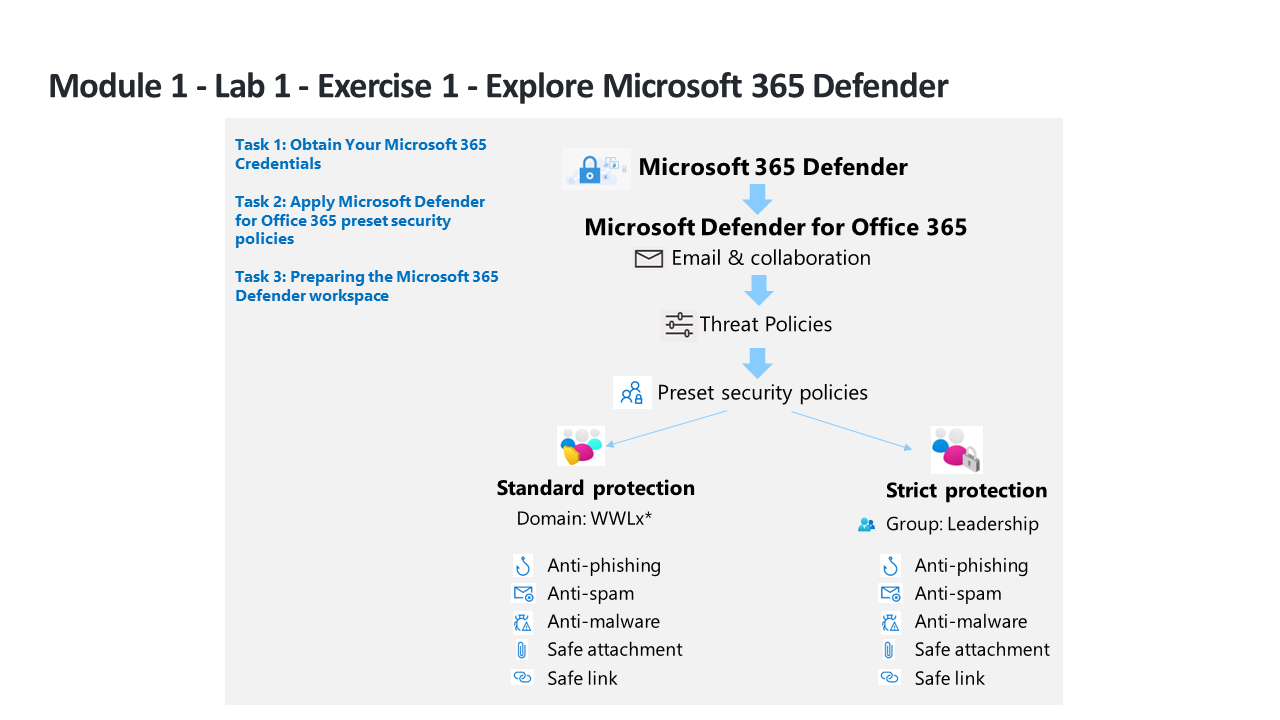
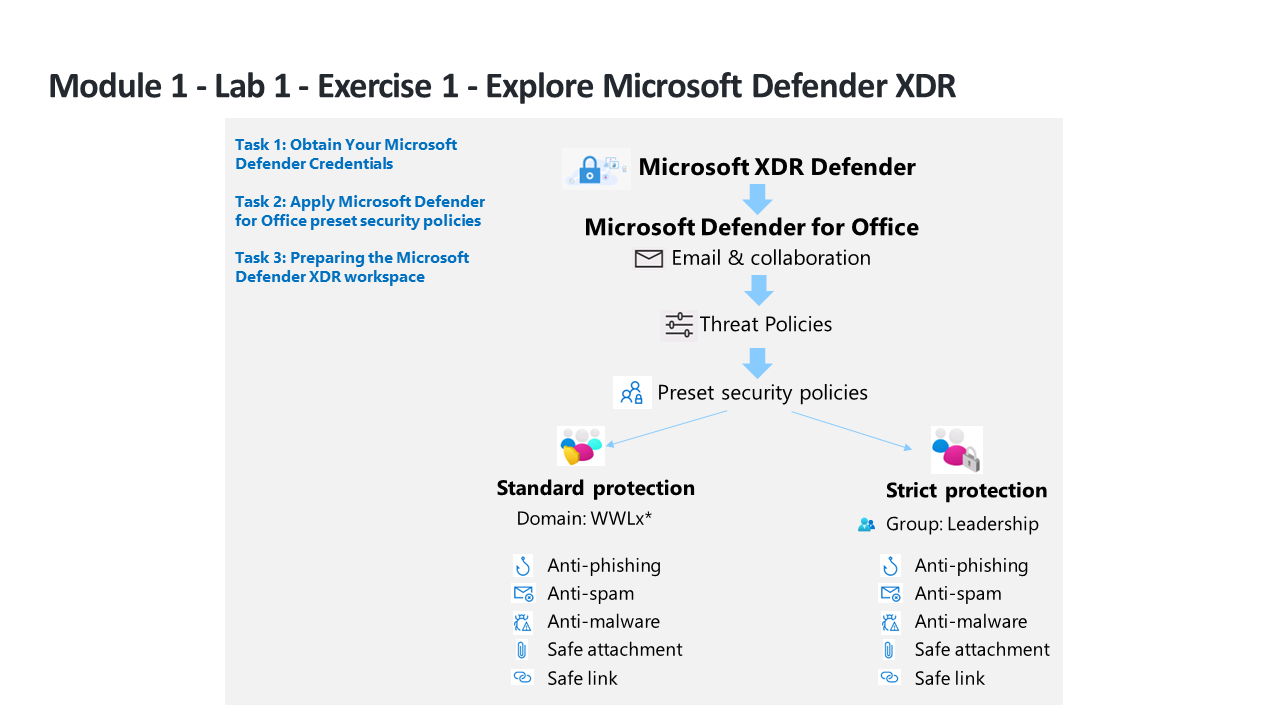
resolve bugs  #269, #263 and #264

diff --git a/Instructions/Labs/LAB_AK_01_Lab1_Ex1_Explore_M365_Defender.md b/Instructions/Labs/LAB_AK_01_Lab1_Ex1_Explore_M365_Defender.md
@@ -1,16 +1,16 @@
 ---
 lab:
-    title: 'Exercise 1 - Explore Microsoft 365 Defender'
-    module: 'Learning Path 1 - Mitigate threats using Microsoft 365 Defender'
+    title: 'Exercise 1 - Explore Microsoft Defender XDR'
+    module: 'Learning Path 1 - Mitigate threats using Microsoft Defender XDR'
 ---
 
-# Learning Path 1 - Lab 1 - Exercise 1 - Explore Microsoft 365 Defender
+# Learning Path 1 - Lab 1 - Exercise 1 - Explore Microsoft Defender XDR
 
 ## Lab scenario
 
 ![M365 Defender](../Media/SC-200-Lab_M1_L1_Ex1.png)
 
-You are a Security Operations Analyst working at a company that is implementing Microsoft 365 Defender. You start by assigning preset security policies in EOP and Microsoft Defender for Office 365.
+You are a Security Operations Analyst working at a company that is implementing Microsoft Defender XDR. You start by assigning preset security policies in EOP and Microsoft Defender for Office 365.
 
 >**Note:** An **[interactive lab simulation](https://mslabs.cloudguides.com/guides/SC-200%20Lab%20Simulation%20-%20Explore%20Microsoft%20365%20Defender)** is available that allows you to click through this lab at your own pace. You may find slight differences between the interactive simulation and the hosted lab, but the core concepts and ideas being demonstrated are the same.
 
@@ -37,7 +37,7 @@ In this task, you will assign preset security policies for Exchange Online Prote
 
 1. Start the Microsoft Edge browser.
 
-1. In the Edge browser, go to the Microsoft 365 Defender portal at (https://security.microsoft.com).
+1. In the Edge browser, go to the Microsoft Defender XDR portal at (https://security.microsoft.com).
 
 1. In the **Sign in** dialog box, copy and paste in the tenant Email account for the admin username provided by your lab hosting provider and then select **Next**.
 
@@ -45,7 +45,7 @@ In this task, you will assign preset security policies for Exchange Online Prote
 
     >**Note:** If you receive a message "The operation could not be completed. Please try again later. If the problem persists, contact Microsoft support." just click **OK** to continue.  
 
-1. If shown, close the Microsoft 365 Defender quick tour pop-up window. **Hint:** Later in this lab, you will need to wait until the Defender workspace is provisioned, you can take this time to navigate through the guided tours to learn more about Microsoft 365 Defender.
+1. If shown, close the Microsoft Defender XDR quick tour pop-up window. **Hint:** Later in this lab, you will need to wait until the Defender workspace is provisioned, you can take this time to navigate through the guided tours to learn more about Microsoft Defender XDR.
 
 1. From the navigation menu, under *Email & Collaboration* area, select **Policies & rules**.
 
@@ -89,24 +89,20 @@ In this task, you will assign preset security policies for Exchange Online Prote
 
     >**Note:** If you receive the message *"The URI 'https://outlook.office365.com/psws/service.svc/AntiPhishPolicy' is not valid for PUT operation. The URI must point to a single resource for PUT operations."* just select **OK** and then select **Cancel** to return to the main page. You will see the *Strict protection is on* option enabled.
 
-### Task 3: Preparing the Microsoft 365 Defender workspace
+### Task 3: Preparing the Microsoft Defender XDR workspace
 
-1. On the **Microsoft 365 Defender** portal, from the navigation menu, select **Home** from the left.
+1. On the **Microsoft Defender** portal, from the navigation menu, select **Home** from the left.
 
     >**Note:** You may need to scroll all the way to the menu top.
 
-1. On the **Home** portal page, **Welcome to Microsoft 365 Defender** is displayed.
+1. On the **Home** portal page, the **Get your SIEM and XDR in one place** banner is displayed.
 
-1. Scroll down through the tiles until you find the tile labeled **Microsoft 365 Defender** with the message, **Turn on Microsoft 365 Defender.**
+1. Scroll down the menu items to **Assets** and select **Devices**.
 
-    >**Hint:** It should be at the bottom right of the tiles.
+1. The process to deploy the Defender XDR workspace should start and you should see messages saying *loading and Initializing* briefly displayed at the top of the page, and then you're going to see an image of a coffee mug and a message that reads: **Hang on! We're preparing new spaces for your data and connecting them.** It will take approximately 5 minutes to finish. *Leave the page open and make sure it finishes since it is required for the next Lab.*
 
-1. Select the button that says **Turn new features on.**
+    >**Note:** If the message "Hang on! We're preparing new spaces for your data and connecting them" does not appear, or the "Settings > Microsoft Defender XDR > Account" page opens, but you see the message "Failed to load data storage location. Please try again later",  select "Alert service settings" from the "General" menu, or go to the navigation menu, scroll down to the "Assets" section and select "Devices".
 
-1. You will see messages saying *loading and Initializing* briefly displayed at the top of the page, and then you're going to see an image of a coffee mug and a message that reads: **Hang on! We're preparing new spaces for your data and connecting them.** It will take approximately 5 minutes to finish. *Leave the page open and make sure it finishes since it is required for the next Lab.*
-
-    >**Note:** If the message "Hang on! We're preparing new spaces for your data and connecting them" does not appear, or the "Settings > Microsoft 365 Defender > Account" page opens, but you see the message "Failed to load data storage location. Please try again later",  select "Alert service settings" from the "General" menu, or go to the navigation menu, scroll down to the "Assets" section and select "Devices".
-
-1. When the new space completes successfully, you are going to see the Microsoft 365 Defender General settings for Account, Email notifications, Alert service settings, Permissions and roles and Streaming API. You will also see **Preview Features** turned on.
+1. When the new space completes successfully, you are going to see the Microsoft Defender XDR General settings for Account, Email notifications, Alert service settings, Permissions and roles and Streaming API. You will also see **Preview Features** turned on.
 
 ## You have completed the lab

diff --git a/Instructions/Labs/LAB_AK_07_Lab1_Ex2_Playbook.md b/Instructions/Labs/LAB_AK_07_Lab1_Ex2_Playbook.md
@@ -30,6 +30,8 @@ In this task, you'll create a Microsoft Teams team for use in the lab.
 
 1. Close any Teams pop-ups that may appear.
 
+    >**Note:** If prompted to use **New Teams** accept and proceed with the exercise.
+
 1. If not already selected, select **Teams** on the left menu, then at the top, select the ![plus sign icon](../Media/plus-sign-icon-lab.png) icon.
 
 1. Select the **Create Team** option.
@@ -97,25 +99,25 @@ In this task, you'll update the new playbook you created with the proper connect
 
 1. Select **Automation** under the *Configuration* area and then select the **Active Playbooks** tab.
 
-1. Select **Refresh** from the command bar in case you don't see any playbooks. You should see the playbook created from the previous step with the **Microsoft Sentinel Incident** *Trigger kind*.
+1. Select **Refresh** from the command bar in case you don't see any playbooks. You should see the playbook created from the previous step.
 
-1. Select the **PostMessageTeams-OnIncident** playbook name.
+1. Select the **PostMessageTeams** playbook name.
 
-1. On the Logic App page for *PostMessageTeams-OnIncident*, in the command menu, select **Edit**.
+1. On the Logic App page for *PostMessageTeams*, in the command menu, select **Edit**.
 
     >**Note:** You may need to refresh the page.
 
-1. Select the *first* block, **Microsoft Sentinel incident (Preview)**.
+1. Select the *first* block, **Microsoft Sentinel incident**.
 
 1. Select the **Change connection** link.
 
 1. Select **Add new** and select **Sign in**. In the new window, select your Azure subscription admin credentials when prompted. The last line of the block should now read "Connected to your-admin-username".
 
-1. Now select the *second* block, **Connections**.
+1. Now select the *second* block, **Post a message (V3)**.
 
-1. Select **Add new** and select your Azure admin credentials when prompted. The last line of the block should now read "Connected to your-admin-username".
+1. In the Prameters tab, scroll down and select the **Change connection** link and then select **Add new** and **Sign in**. Chose your Azure admin credentials when prompted. The Prameters tab should now read "Connected to your-admin-username".
 
-1. The block has now been renamed to **Post a message (V3)(Preview)**, at the end of the *Team* field, select the **X** to clear the contents. The field is changed to a drop-down with a listing of the available Teams from Microsoft Teams. Select **SOC**.
+1. At the end of the *Team* field, select the **X** to clear the contents. The field is changed to a drop-down with a listing of the available Teams from Microsoft Teams. Select **SOC**.
 
 1. Do the same for the *Channel* field, select the **X** at the end of the field to clear the contents. The field is changed to a drop-down with a listing of the Channels of the SOC Teams. Select **New Alerts**.
 
